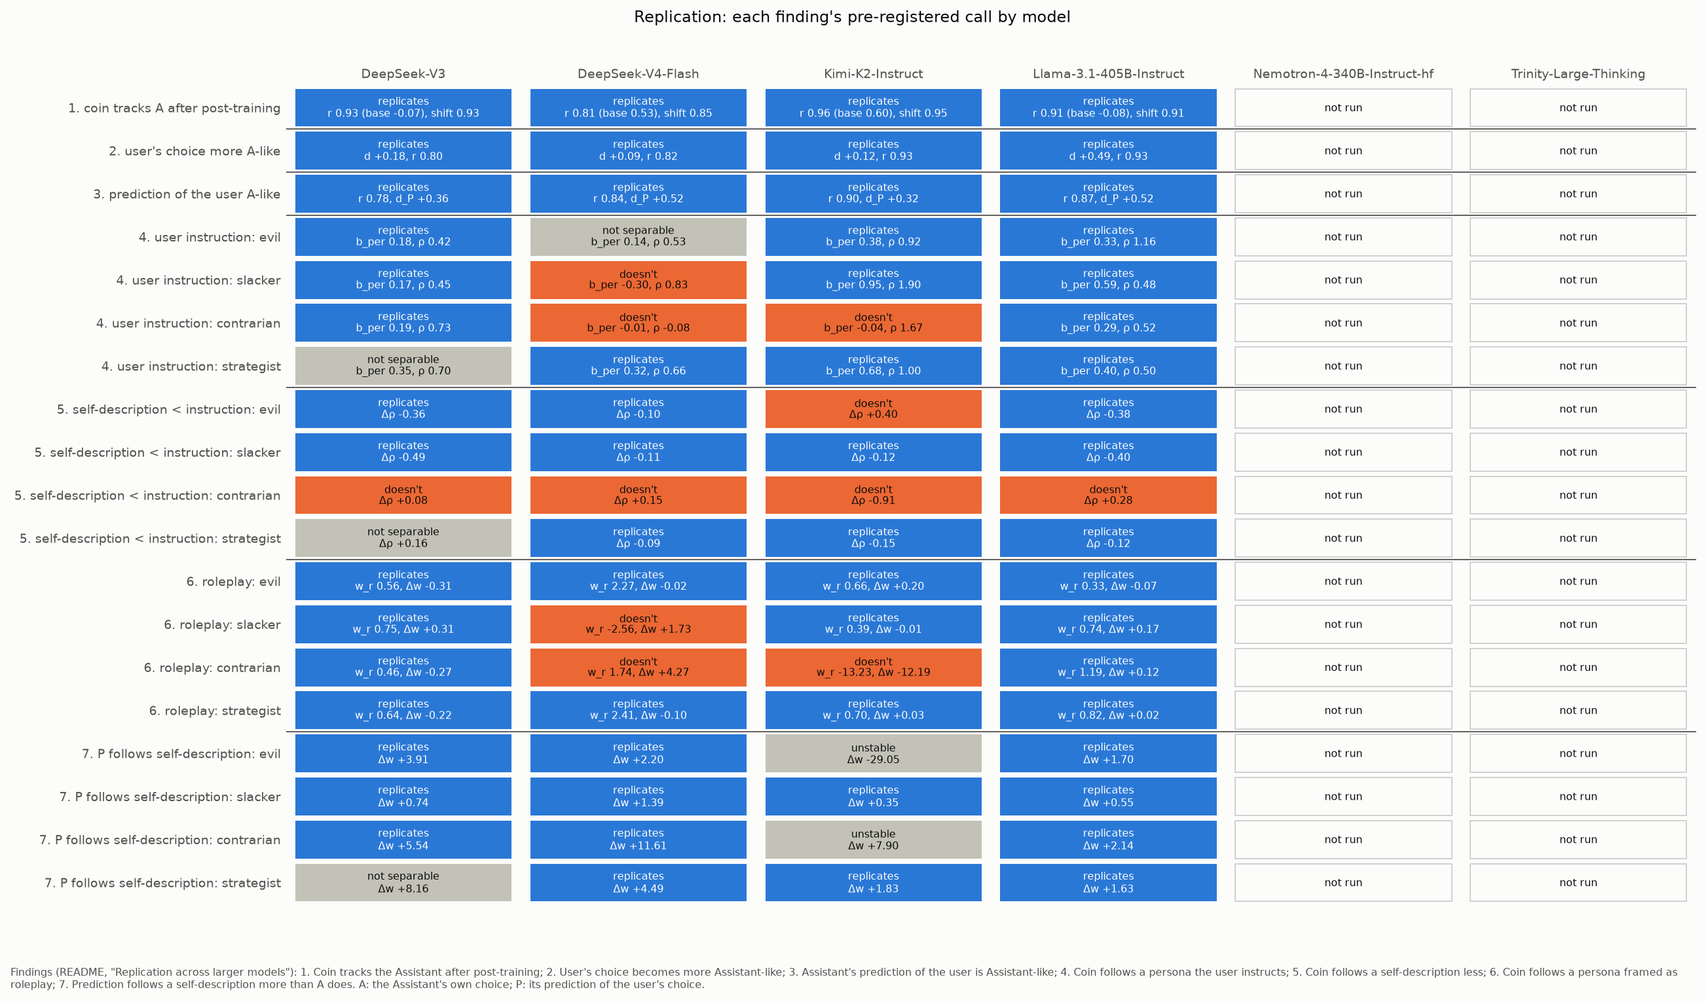
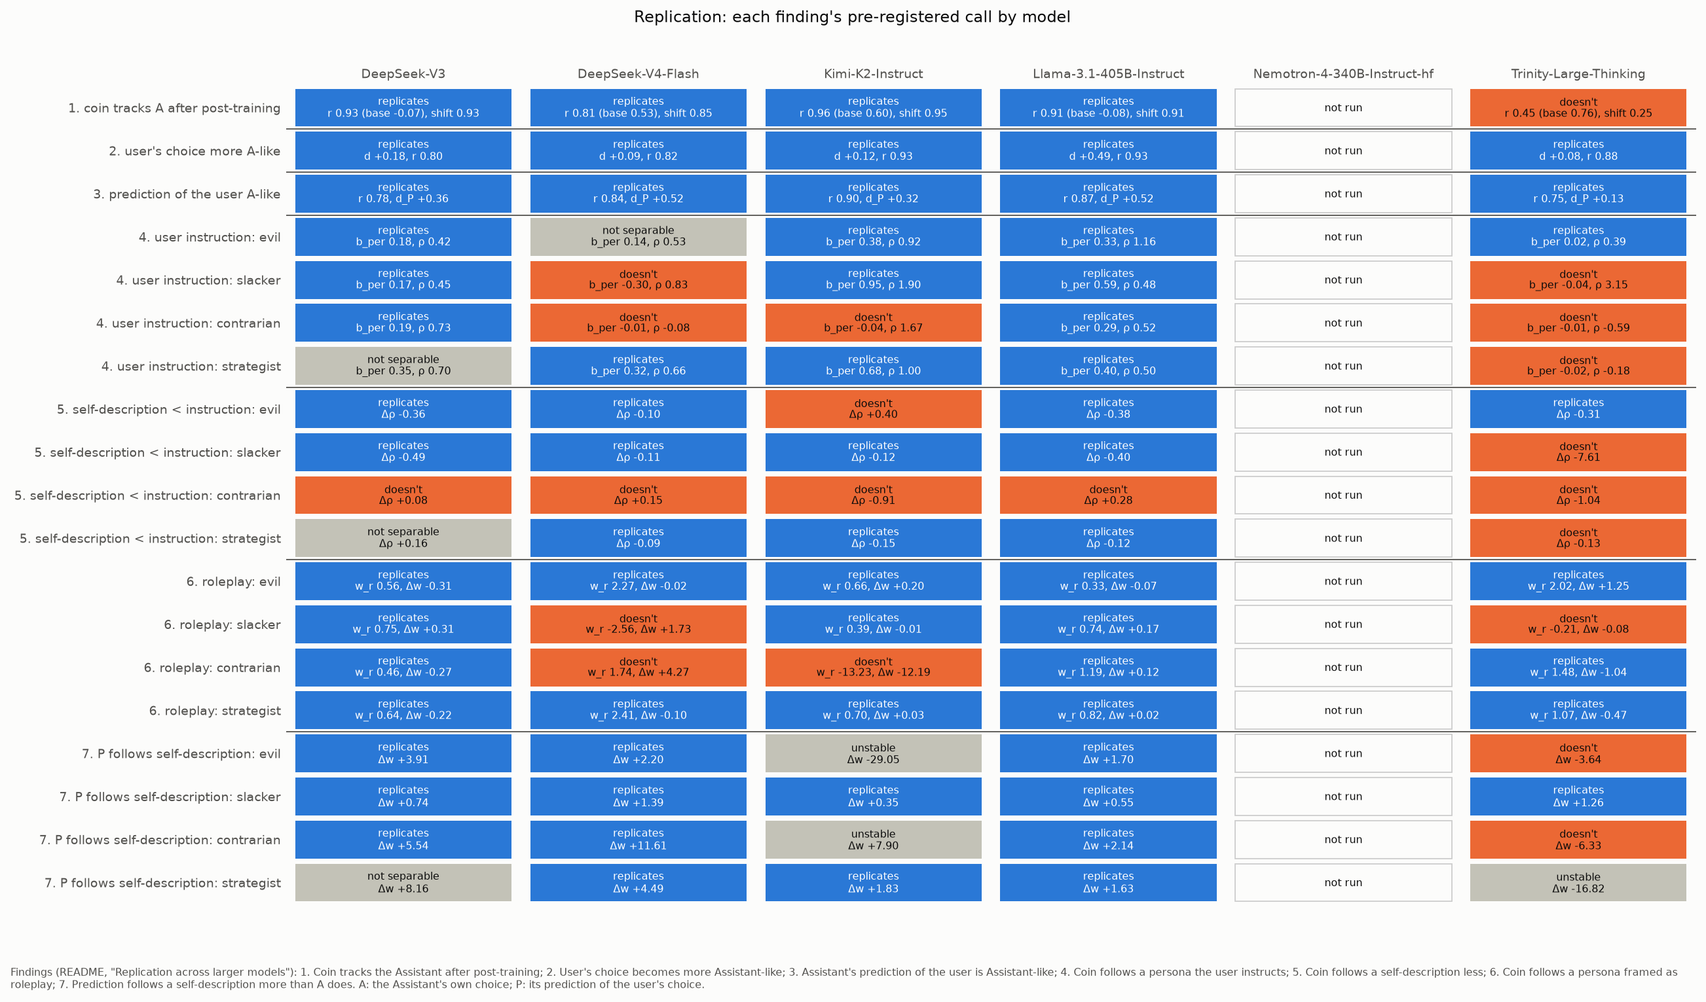
Replication results, Trinity Large Thinking: finding 1 doesn't replicate (r(A_f, C_f) 0.45 below the base's 0.76; coin SD 0.20, as OLMo 3.1 Think's), findings 2-3 do; persona pulls tiny, most persona calls fail or are unstable; Trinity-Large-Base is already Assistant-like

Changed region(s): [[0.8395, 0.0614, 0.995, 0.921]]

diff --git a/replication/STATUS.md b/replication/STATUS.md
@@ -1,6 +1,6 @@
 # Replication status
 
-Regenerated by `uv run python replication_status.py` from the files on disk, 2026-11-11 13:26 UTC. Each cell: median outcome mass / split-half reliability for a scored condition; *pilot* where only the 24-pair pilot exists; – where nothing is. Flagged: median mass below 0.2 (reported, no call) and split-half below 0.9.
+Regenerated by `uv run python replication_status.py` from the files on disk, 2026-11-11 14:41 UTC. Each cell: median outcome mass / split-half reliability for a scored condition; *pilot* where only the 24-pair pilot exists; – where nothing is. Flagged: median mass below 0.2 (reported, no call) and split-half below 0.9.
 
 | model | key | base done | final done | pilot only | last finished | scoring hours |
 |---|---|---|---|---|---|---|
@@ -9,81 +9,81 @@ Regenerated by `uv run python replication_status.py` from the files on disk, 202
 | Kimi-K2-Instruct | `kimi-k2` | 4/4 | 44/44 | 0 | instruct/coinflip@strategist+roleplay at 2026-11-11T13:22:40Z | 0.5 |
 | Llama-3.1-405B-Instruct | `llama-405b` | 4/4 | 44/44 | 0 | instruct/coinflip@strategist+roleplay at 2026-11-11T08:53:07Z | 2.2 |
 | Nemotron-4-340B-Instruct-hf | `nemotron4-340b` | 0/4 | 0/44 | 0 |  | 0.0 |
-| Trinity-Large-Thinking | `trinity-large` | 0/4 | 0/44 | 0 |  | 0.0 |
+| Trinity-Large-Thinking | `trinity-large` | 4/4 | 44/44 | 0 | instruct/coinflip@strategist+roleplay at 2026-11-11T14:38:21Z | 0.2 |
 
 ## Conditions
 
 | condition | DeepSeek-V3 | DeepSeek-V4-Flash | Kimi-K2-Instruct | Llama-3.1-405B-Instruct | Nemotron-4-340B-Instruct-hf | Trinity-Large-Thinking |
 |---|---|---|---|---|---|---|
-| `base/assistant` | 0.99 / 0.994 | 1.00 / 0.999 | 1.00 / 0.998 | 0.99 / 0.993 | – | – |
-| `base/coinflip` | 0.86 / 0.972 | 0.86 / 0.989 | 0.91 / 0.990 | 0.83 / 0.991 | – | – |
-| `base/user_choice` | 0.96 / 0.993 | 1.00 / 0.998 | 1.00 / 0.997 | 0.97 / 0.993 | – | – |
-| `base/predict_user` | 0.99 / 0.993 | 1.00 / 0.998 | 1.00 / 0.997 | 0.99 / 0.992 | – | – |
-| `instruct/assistant` | 1.00 / 0.999 | 1.00 / 0.999 | 1.00 / 0.999 | 1.00 / 0.998 | – | – |
-| `instruct/coinflip` | 0.90 / 0.997 | 0.89 / 0.996 | 0.33 / 0.999 | 0.60 / 0.999 | – | – |
-| `instruct/user_choice` | 1.00 / 0.998 | 0.99 / 0.998 | 0.95 / 0.998 | 1.00 / 0.998 | – | – |
-| `instruct/predict_user` | 1.00 / 0.998 | 1.00 / 0.998 | 1.00 / 0.998 | 1.00 / 0.998 | – | – |
-| `instruct/assistant@evil` | 1.00 / 0.998 | 1.00 / 0.997 | 1.00 / 0.998 | 1.00 / 0.998 | – | – |
-| `instruct/coinflip@evil` | 0.93 / 0.995 | 0.91 / 0.994 | 0.78 / 0.998 | 0.87 / 0.996 | – | – |
-| `instruct/assistant@evil+user` | 1.00 / 0.997 | 1.00 / 0.998 | 1.00 / 0.998 | 1.00 / 0.998 | – | – |
-| `instruct/coinflip@evil+user` | 0.94 / 0.993 | 0.92 / 0.996 | 0.79 / 0.998 | 0.81 / 0.997 | – | – |
-| `instruct/assistant@evil+self` | 1.00 / 0.998 | 1.00 / 0.999 | 1.00 / 0.999 | 1.00 / 0.998 | – | – |
-| `instruct/coinflip@evil+self` | 0.93 / 0.996 | 0.93 / 0.997 | 0.62 / 0.999 | 0.75 / 0.998 | – | – |
-| `instruct/user_choice@evil+self` | 0.99 / 0.996 | 0.99 / 0.998 | 0.97 / 0.998 | 1.00 / 0.998 | – | – |
-| `instruct/predict_user@evil+self` | 1.00 / 0.999 | 1.00 / 0.995 | 1.00 / 0.996 | 1.00 / 0.997 | – | – |
-| `instruct/assistant@evil+roleplay` | 1.00 / 0.998 | 1.00 / 0.997 | 1.00 / 0.999 | 1.00 / 0.998 | – | – |
-| `instruct/coinflip@evil+roleplay` | 0.96 / 0.994 | 0.92 / 0.993 | 0.79 / 0.999 | 0.89 / 0.997 | – | – |
-| `instruct/assistant@slacker` | 1.00 / 0.999 | 1.00 / 0.999 | 1.00 / 0.998 | 1.00 / 0.998 | – | – |
-| `instruct/coinflip@slacker` | 0.93 / 0.998 | 0.87 / 0.995 | 0.67 / 0.998 | 0.83 / 0.998 | – | – |
-| `instruct/assistant@slacker+user` | 1.00 / 0.998 | 1.00 / 0.999 | 1.00 / 0.998 | 1.00 / 0.998 | – | – |
-| `instruct/coinflip@slacker+user` | 0.96 / 0.996 | 0.89 / 0.996 | 0.72 / 0.999 | 0.74 / 0.998 | – | – |
-| `instruct/assistant@slacker+self` | 1.00 / 0.998 | 1.00 / 0.999 | 1.00 / 0.998 | 1.00 / 0.998 | – | – |
-| `instruct/coinflip@slacker+self` | 0.96 / 0.996 | 0.89 / 0.996 | 0.59 / 0.999 | 0.73 / 0.999 | – | – |
-| `instruct/user_choice@slacker+self` | 1.00 / 0.997 | 0.97 / 0.995 | 0.99 / 0.998 | 0.98 / 0.995 | – | – |
-| `instruct/predict_user@slacker+self` | 1.00 / 0.998 | 1.00 / 0.998 | 1.00 / 0.998 | 1.00 / 0.998 | – | – |
-| `instruct/assistant@slacker+roleplay` | 1.00 / 0.998 | 1.00 / 0.999 | 1.00 / 0.998 | 1.00 / 0.999 | – | – |
-| `instruct/coinflip@slacker+roleplay` | 0.98 / 0.998 | 0.89 / 0.993 | 0.78 / 0.998 | 0.83 / 0.999 | – | – |
-| `instruct/assistant@contrarian` | 1.00 / 0.998 | 1.00 / 0.998 | 1.00 / 0.998 | 1.00 / 0.998 | – | – |
-| `instruct/coinflip@contrarian` | 0.93 / 0.993 | 0.88 / 0.980 | 0.63 / 0.982 | 0.78 / 0.996 | – | – |
-| `instruct/assistant@contrarian+user` | 1.00 / 0.998 | 1.00 / 0.998 | 1.00 / 0.997 | 1.00 / 0.998 | – | – |
-| `instruct/coinflip@contrarian+user` | 0.97 / 0.986 | 0.93 / 0.974 | 0.72 / 0.983 | 0.74 / 0.997 | – | – |
-| `instruct/assistant@contrarian+self` | 1.00 / 0.998 | 1.00 / 0.998 | 1.00 / 0.999 | 1.00 / 0.998 | – | – |
-| `instruct/coinflip@contrarian+self` | 0.97 / 0.993 | 0.92 / 0.976 | 0.74 / 0.981 | 0.70 / 0.999 | – | – |
-| `instruct/user_choice@contrarian+self` | 0.93 / 0.992 | 0.96 / 0.996 | 0.94 / 0.989 | 0.97 / 0.998 | – | – |
-| `instruct/predict_user@contrarian+self` | 1.00 / 0.999 | 1.00 / 0.998 | 1.00 / 0.996 | 1.00 / 0.998 | – | – |
-| `instruct/assistant@contrarian+roleplay` | 1.00 / 0.997 | 1.00 / 0.996 | 1.00 / 0.997 | 1.00 / 0.998 | – | – |
-| `instruct/coinflip@contrarian+roleplay` | 0.97 / 0.981 | 0.93 / 0.978 | 0.76 / 0.991 | 0.80 / 0.992 | – | – |
-| `instruct/assistant@strategist` | 1.00 / 0.998 | 1.00 / 0.999 | 1.00 / 0.999 | 1.00 / 0.998 | – | – |
-| `instruct/coinflip@strategist` | 0.92 / 0.996 | 0.88 / 0.995 | 0.58 / 0.998 | 0.82 / 0.997 | – | – |
-| `instruct/assistant@strategist+user` | 1.00 / 0.998 | 1.00 / 0.999 | 1.00 / 0.999 | 1.00 / 0.998 | – | – |
-| `instruct/coinflip@strategist+user` | 0.93 / 0.996 | 0.90 / 0.996 | 0.55 / 0.999 | 0.77 / 0.997 | – | – |
-| `instruct/assistant@strategist+self` | 1.00 / 0.999 | 1.00 / 0.999 | 1.00 / 0.999 | 1.00 / 0.998 | – | – |
-| `instruct/coinflip@strategist+self` | 0.93 / 0.997 | 0.90 / 0.996 | 0.55 / 0.999 | 0.68 / 0.998 | – | – |
-| `instruct/user_choice@strategist+self` | 1.00 / 0.998 | 0.99 / 0.998 | 0.98 / 0.999 | 0.99 / 0.998 | – | – |
-| `instruct/predict_user@strategist+self` | 1.00 / 0.999 | 1.00 / 0.998 | 1.00 / 0.999 | 1.00 / 0.998 | – | – |
-| `instruct/assistant@strategist+roleplay` | 1.00 / 0.999 | 1.00 / 0.999 | 1.00 / 0.999 | 1.00 / 0.998 | – | – |
-| `instruct/coinflip@strategist+roleplay` | 0.95 / 0.996 | 0.93 / 0.995 | 0.69 / 0.998 | 0.84 / 0.997 | – | – |
+| `base/assistant` | 0.99 / 0.994 | 1.00 / 0.999 | 1.00 / 0.998 | 0.99 / 0.993 | – | 1.00 / 0.999 |
+| `base/coinflip` | 0.86 / 0.972 | 0.86 / 0.989 | 0.91 / 0.990 | 0.83 / 0.991 | – | 0.61 / 0.991 |
+| `base/user_choice` | 0.96 / 0.993 | 1.00 / 0.998 | 1.00 / 0.997 | 0.97 / 0.993 | – | 0.95 / 0.999 |
+| `base/predict_user` | 0.99 / 0.993 | 1.00 / 0.998 | 1.00 / 0.997 | 0.99 / 0.992 | – | 1.00 / 0.999 |
+| `instruct/assistant` | 1.00 / 0.999 | 1.00 / 0.999 | 1.00 / 0.999 | 1.00 / 0.998 | – | 1.00 / 0.999 |
+| `instruct/coinflip` | 0.90 / 0.997 | 0.89 / 0.996 | 0.33 / 0.999 | 0.60 / 0.999 | – | 0.63 / 0.929 |
+| `instruct/user_choice` | 1.00 / 0.998 | 0.99 / 0.998 | 0.95 / 0.998 | 1.00 / 0.998 | – | 0.99 / 0.998 |
+| `instruct/predict_user` | 1.00 / 0.998 | 1.00 / 0.998 | 1.00 / 0.998 | 1.00 / 0.998 | – | 1.00 / 0.998 |
+| `instruct/assistant@evil` | 1.00 / 0.998 | 1.00 / 0.997 | 1.00 / 0.998 | 1.00 / 0.998 | – | 1.00 / 0.997 |
+| `instruct/coinflip@evil` | 0.93 / 0.995 | 0.91 / 0.994 | 0.78 / 0.998 | 0.87 / 0.996 | – | 0.78 / 0.963 |
+| `instruct/assistant@evil+user` | 1.00 / 0.997 | 1.00 / 0.998 | 1.00 / 0.998 | 1.00 / 0.998 | – | 1.00 / 0.997 |
+| `instruct/coinflip@evil+user` | 0.94 / 0.993 | 0.92 / 0.996 | 0.79 / 0.998 | 0.81 / 0.997 | – | 0.74 / 0.936 |
+| `instruct/assistant@evil+self` | 1.00 / 0.998 | 1.00 / 0.999 | 1.00 / 0.999 | 1.00 / 0.998 | – | 1.00 / 0.999 |
+| `instruct/coinflip@evil+self` | 0.93 / 0.996 | 0.93 / 0.997 | 0.62 / 0.999 | 0.75 / 0.998 | – | 0.77 / 0.948 |
+| `instruct/user_choice@evil+self` | 0.99 / 0.996 | 0.99 / 0.998 | 0.97 / 0.998 | 1.00 / 0.998 | – | 0.98 / 0.995 |
+| `instruct/predict_user@evil+self` | 1.00 / 0.999 | 1.00 / 0.995 | 1.00 / 0.996 | 1.00 / 0.997 | – | 0.99 / 0.999 |
+| `instruct/assistant@evil+roleplay` | 1.00 / 0.998 | 1.00 / 0.997 | 1.00 / 0.999 | 1.00 / 0.998 | – | 1.00 / 0.997 |
+| `instruct/coinflip@evil+roleplay` | 0.96 / 0.994 | 0.92 / 0.993 | 0.79 / 0.999 | 0.89 / 0.997 | – | 0.79 / 0.976 |
+| `instruct/assistant@slacker` | 1.00 / 0.999 | 1.00 / 0.999 | 1.00 / 0.998 | 1.00 / 0.998 | – | 1.00 / 0.999 |
+| `instruct/coinflip@slacker` | 0.93 / 0.998 | 0.87 / 0.995 | 0.67 / 0.998 | 0.83 / 0.998 | – | 0.71 / 0.962 |
+| `instruct/assistant@slacker+user` | 1.00 / 0.998 | 1.00 / 0.999 | 1.00 / 0.998 | 1.00 / 0.998 | – | 1.00 / 0.999 |
+| `instruct/coinflip@slacker+user` | 0.96 / 0.996 | 0.89 / 0.996 | 0.72 / 0.999 | 0.74 / 0.998 | – | 0.77 / 0.952 |
+| `instruct/assistant@slacker+self` | 1.00 / 0.998 | 1.00 / 0.999 | 1.00 / 0.998 | 1.00 / 0.998 | – | 1.00 / 0.999 |
+| `instruct/coinflip@slacker+self` | 0.96 / 0.996 | 0.89 / 0.996 | 0.59 / 0.999 | 0.73 / 0.999 | – | 0.77 / 0.940 |
+| `instruct/user_choice@slacker+self` | 1.00 / 0.997 | 0.97 / 0.995 | 0.99 / 0.998 | 0.98 / 0.995 | – | 0.97 / 0.997 |
+| `instruct/predict_user@slacker+self` | 1.00 / 0.998 | 1.00 / 0.998 | 1.00 / 0.998 | 1.00 / 0.998 | – | 1.00 / 0.997 |
+| `instruct/assistant@slacker+roleplay` | 1.00 / 0.998 | 1.00 / 0.999 | 1.00 / 0.998 | 1.00 / 0.999 | – | 1.00 / 0.999 |
+| `instruct/coinflip@slacker+roleplay` | 0.98 / 0.998 | 0.89 / 0.993 | 0.78 / 0.998 | 0.83 / 0.999 | – | 0.77 / 0.963 |
+| `instruct/assistant@contrarian` | 1.00 / 0.998 | 1.00 / 0.998 | 1.00 / 0.998 | 1.00 / 0.998 | – | 1.00 / 0.998 |
+| `instruct/coinflip@contrarian` | 0.93 / 0.993 | 0.88 / 0.980 | 0.63 / 0.982 | 0.78 / 0.996 | – | 0.73 / 0.959 |
+| `instruct/assistant@contrarian+user` | 1.00 / 0.998 | 1.00 / 0.998 | 1.00 / 0.997 | 1.00 / 0.998 | – | 1.00 / 0.998 |
+| `instruct/coinflip@contrarian+user` | 0.97 / 0.986 | 0.93 / 0.974 | 0.72 / 0.983 | 0.74 / 0.997 | – | 0.73 / 0.962 |
+| `instruct/assistant@contrarian+self` | 1.00 / 0.998 | 1.00 / 0.998 | 1.00 / 0.999 | 1.00 / 0.998 | – | 1.00 / 0.998 |
+| `instruct/coinflip@contrarian+self` | 0.97 / 0.993 | 0.92 / 0.976 | 0.74 / 0.981 | 0.70 / 0.999 | – | 0.72 / 0.963 |
+| `instruct/user_choice@contrarian+self` | 0.93 / 0.992 | 0.96 / 0.996 | 0.94 / 0.989 | 0.97 / 0.998 | – | 0.96 / 0.994 |
+| `instruct/predict_user@contrarian+self` | 1.00 / 0.999 | 1.00 / 0.998 | 1.00 / 0.996 | 1.00 / 0.998 | – | 1.00 / 0.999 |
+| `instruct/assistant@contrarian+roleplay` | 1.00 / 0.997 | 1.00 / 0.996 | 1.00 / 0.997 | 1.00 / 0.998 | – | 1.00 / 0.998 |
+| `instruct/coinflip@contrarian+roleplay` | 0.97 / 0.981 | 0.93 / 0.978 | 0.76 / 0.991 | 0.80 / 0.992 | – | 0.74 / 0.970 |
+| `instruct/assistant@strategist` | 1.00 / 0.998 | 1.00 / 0.999 | 1.00 / 0.999 | 1.00 / 0.998 | – | 1.00 / 0.998 |
+| `instruct/coinflip@strategist` | 0.92 / 0.996 | 0.88 / 0.995 | 0.58 / 0.998 | 0.82 / 0.997 | – | 0.72 / 0.949 |
+| `instruct/assistant@strategist+user` | 1.00 / 0.998 | 1.00 / 0.999 | 1.00 / 0.999 | 1.00 / 0.998 | – | 1.00 / 0.999 |
+| `instruct/coinflip@strategist+user` | 0.93 / 0.996 | 0.90 / 0.996 | 0.55 / 0.999 | 0.77 / 0.997 | – | 0.75 / 0.945 |
+| `instruct/assistant@strategist+self` | 1.00 / 0.999 | 1.00 / 0.999 | 1.00 / 0.999 | 1.00 / 0.998 | – | 1.00 / 0.999 |
+| `instruct/coinflip@strategist+self` | 0.93 / 0.997 | 0.90 / 0.996 | 0.55 / 0.999 | 0.68 / 0.998 | – | 0.69 / 0.947 |
+| `instruct/user_choice@strategist+self` | 1.00 / 0.998 | 0.99 / 0.998 | 0.98 / 0.999 | 0.99 / 0.998 | – | 0.99 / 0.998 |
+| `instruct/predict_user@strategist+self` | 1.00 / 0.999 | 1.00 / 0.998 | 1.00 / 0.999 | 1.00 / 0.998 | – | 1.00 / 0.999 |
+| `instruct/assistant@strategist+roleplay` | 1.00 / 0.999 | 1.00 / 0.999 | 1.00 / 0.999 | 1.00 / 0.998 | – | 1.00 / 0.998 |
+| `instruct/coinflip@strategist+roleplay` | 0.95 / 0.996 | 0.93 / 0.995 | 0.69 / 0.998 | 0.84 / 0.997 | – | 0.70 / 0.938 |
 
 ## Calls (from the last `replication_analysis.py` run)
 
 | finding | DeepSeek-V3 | DeepSeek-V4-Flash | Kimi-K2-Instruct | Llama-3.1-405B-Instruct | Nemotron-4-340B-Instruct-hf | Trinity-Large-Thinking |
 |---|---|---|---|---|---|---|
-| 1. Coin tracks the Assistant after post-training | replicates (r 0.93 (base -0.07), shift 0.93) | replicates (r 0.81 (base 0.53), shift 0.85) | replicates (r 0.96 (base 0.60), shift 0.95) | replicates (r 0.91 (base -0.08), shift 0.91) | – | – |
-| 2. User's choice becomes more Assistant-like | replicates (d +0.18, r 0.80) | replicates (d +0.09, r 0.82) | replicates (d +0.12, r 0.93) | replicates (d +0.49, r 0.93) | – | – |
-| 3. Assistant's prediction of the user is Assistant-like | replicates (r 0.78, d_P +0.36) | replicates (r 0.84, d_P +0.52) | replicates (r 0.90, d_P +0.32) | replicates (r 0.87, d_P +0.52) | – | – |
-| 4. Coin follows a persona the user instructs, evil | replicates (b_per 0.18, ρ 0.42) | not separable (b_per 0.14, ρ 0.53) | replicates (b_per 0.38, ρ 0.92) | replicates (b_per 0.33, ρ 1.16) | – | – |
-| 4. Coin follows a persona the user instructs, slacker | replicates (b_per 0.17, ρ 0.45) | doesn't (b_per -0.30, ρ 0.83) | replicates (b_per 0.95, ρ 1.90) | replicates (b_per 0.59, ρ 0.48) | – | – |
-| 4. Coin follows a persona the user instructs, contrarian | replicates (b_per 0.19, ρ 0.73) | doesn't (b_per -0.01, ρ -0.08) | doesn't (b_per -0.04, ρ 1.67) | replicates (b_per 0.29, ρ 0.52) | – | – |
-| 4. Coin follows a persona the user instructs, strategist | not separable (b_per 0.35, ρ 0.70) | replicates (b_per 0.32, ρ 0.66) | replicates (b_per 0.68, ρ 1.00) | replicates (b_per 0.40, ρ 0.50) | – | – |
-| 5. Coin follows a self-description less, evil | replicates (Δρ -0.36) | replicates (Δρ -0.10) | doesn't (Δρ +0.40) | replicates (Δρ -0.38) | – | – |
-| 5. Coin follows a self-description less, slacker | replicates (Δρ -0.49) | replicates (Δρ -0.11) | replicates (Δρ -0.12) | replicates (Δρ -0.40) | – | – |
-| 5. Coin follows a self-description less, contrarian | doesn't (Δρ +0.08) | doesn't (Δρ +0.15) | doesn't (Δρ -0.91) | doesn't (Δρ +0.28) | – | – |
-| 5. Coin follows a self-description less, strategist | not separable (Δρ +0.16) | replicates (Δρ -0.09) | replicates (Δρ -0.15) | replicates (Δρ -0.12) | – | – |
-| 6. Coin follows a persona framed as roleplay, evil | replicates (w_r 0.56, Δw -0.31) | replicates (w_r 2.27, Δw -0.02) | replicates (w_r 0.66, Δw +0.20) | replicates (w_r 0.33, Δw -0.07) | – | – |
-| 6. Coin follows a persona framed as roleplay, slacker | replicates (w_r 0.75, Δw +0.31) | doesn't (w_r -2.56, Δw +1.73) | replicates (w_r 0.39, Δw -0.01) | replicates (w_r 0.74, Δw +0.17) | – | – |
-| 6. Coin follows a persona framed as roleplay, contrarian | replicates (w_r 0.46, Δw -0.27) | doesn't (w_r 1.74, Δw +4.27) | doesn't (w_r -13.23, Δw -12.19) | replicates (w_r 1.19, Δw +0.12) | – | – |
-| 6. Coin follows a persona framed as roleplay, strategist | replicates (w_r 0.64, Δw -0.22) | replicates (w_r 2.41, Δw -0.10) | replicates (w_r 0.70, Δw +0.03) | replicates (w_r 0.82, Δw +0.02) | – | – |
-| 7. Prediction follows a self-description more than A does, evil | replicates (Δw +3.91) | replicates (Δw +2.20) | unstable (Δw -29.05) | replicates (Δw +1.70) | – | – |
-| 7. Prediction follows a self-description more than A does, slacker | replicates (Δw +0.74) | replicates (Δw +1.39) | replicates (Δw +0.35) | replicates (Δw +0.55) | – | – |
-| 7. Prediction follows a self-description more than A does, contrarian | replicates (Δw +5.54) | replicates (Δw +11.61) | unstable (Δw +7.90) | replicates (Δw +2.14) | – | – |
-| 7. Prediction follows a self-description more than A does, strategist | not separable (Δw +8.16) | replicates (Δw +4.49) | replicates (Δw +1.83) | replicates (Δw +1.63) | – | – |
+| 1. Coin tracks the Assistant after post-training | replicates (r 0.93 (base -0.07), shift 0.93) | replicates (r 0.81 (base 0.53), shift 0.85) | replicates (r 0.96 (base 0.60), shift 0.95) | replicates (r 0.91 (base -0.08), shift 0.91) | – | doesn't (r 0.45 (base 0.76), shift 0.25) |
+| 2. User's choice becomes more Assistant-like | replicates (d +0.18, r 0.80) | replicates (d +0.09, r 0.82) | replicates (d +0.12, r 0.93) | replicates (d +0.49, r 0.93) | – | replicates (d +0.08, r 0.88) |
+| 3. Assistant's prediction of the user is Assistant-like | replicates (r 0.78, d_P +0.36) | replicates (r 0.84, d_P +0.52) | replicates (r 0.90, d_P +0.32) | replicates (r 0.87, d_P +0.52) | – | replicates (r 0.75, d_P +0.13) |
+| 4. Coin follows a persona the user instructs, evil | replicates (b_per 0.18, ρ 0.42) | not separable (b_per 0.14, ρ 0.53) | replicates (b_per 0.38, ρ 0.92) | replicates (b_per 0.33, ρ 1.16) | – | replicates (b_per 0.02, ρ 0.39) |
+| 4. Coin follows a persona the user instructs, slacker | replicates (b_per 0.17, ρ 0.45) | doesn't (b_per -0.30, ρ 0.83) | replicates (b_per 0.95, ρ 1.90) | replicates (b_per 0.59, ρ 0.48) | – | doesn't (b_per -0.04, ρ 3.15) |
+| 4. Coin follows a persona the user instructs, contrarian | replicates (b_per 0.19, ρ 0.73) | doesn't (b_per -0.01, ρ -0.08) | doesn't (b_per -0.04, ρ 1.67) | replicates (b_per 0.29, ρ 0.52) | – | doesn't (b_per -0.01, ρ -0.59) |
+| 4. Coin follows a persona the user instructs, strategist | not separable (b_per 0.35, ρ 0.70) | replicates (b_per 0.32, ρ 0.66) | replicates (b_per 0.68, ρ 1.00) | replicates (b_per 0.40, ρ 0.50) | – | doesn't (b_per -0.02, ρ -0.18) |
+| 5. Coin follows a self-description less, evil | replicates (Δρ -0.36) | replicates (Δρ -0.10) | doesn't (Δρ +0.40) | replicates (Δρ -0.38) | – | replicates (Δρ -0.31) |
+| 5. Coin follows a self-description less, slacker | replicates (Δρ -0.49) | replicates (Δρ -0.11) | replicates (Δρ -0.12) | replicates (Δρ -0.40) | – | doesn't (Δρ -7.61) |
+| 5. Coin follows a self-description less, contrarian | doesn't (Δρ +0.08) | doesn't (Δρ +0.15) | doesn't (Δρ -0.91) | doesn't (Δρ +0.28) | – | doesn't (Δρ -1.04) |
+| 5. Coin follows a self-description less, strategist | not separable (Δρ +0.16) | replicates (Δρ -0.09) | replicates (Δρ -0.15) | replicates (Δρ -0.12) | – | doesn't (Δρ -0.13) |
+| 6. Coin follows a persona framed as roleplay, evil | replicates (w_r 0.56, Δw -0.31) | replicates (w_r 2.27, Δw -0.02) | replicates (w_r 0.66, Δw +0.20) | replicates (w_r 0.33, Δw -0.07) | – | replicates (w_r 2.02, Δw +1.25) |
+| 6. Coin follows a persona framed as roleplay, slacker | replicates (w_r 0.75, Δw +0.31) | doesn't (w_r -2.56, Δw +1.73) | replicates (w_r 0.39, Δw -0.01) | replicates (w_r 0.74, Δw +0.17) | – | doesn't (w_r -0.21, Δw -0.08) |
+| 6. Coin follows a persona framed as roleplay, contrarian | replicates (w_r 0.46, Δw -0.27) | doesn't (w_r 1.74, Δw +4.27) | doesn't (w_r -13.23, Δw -12.19) | replicates (w_r 1.19, Δw +0.12) | – | replicates (w_r 1.48, Δw -1.04) |
+| 6. Coin follows a persona framed as roleplay, strategist | replicates (w_r 0.64, Δw -0.22) | replicates (w_r 2.41, Δw -0.10) | replicates (w_r 0.70, Δw +0.03) | replicates (w_r 0.82, Δw +0.02) | – | replicates (w_r 1.07, Δw -0.47) |
+| 7. Prediction follows a self-description more than A does, evil | replicates (Δw +3.91) | replicates (Δw +2.20) | unstable (Δw -29.05) | replicates (Δw +1.70) | – | doesn't (Δw -3.64) |
+| 7. Prediction follows a self-description more than A does, slacker | replicates (Δw +0.74) | replicates (Δw +1.39) | replicates (Δw +0.35) | replicates (Δw +0.55) | – | replicates (Δw +1.26) |
+| 7. Prediction follows a self-description more than A does, contrarian | replicates (Δw +5.54) | replicates (Δw +11.61) | unstable (Δw +7.90) | replicates (Δw +2.14) | – | doesn't (Δw -6.33) |
+| 7. Prediction follows a self-description more than A does, strategist | not separable (Δw +8.16) | replicates (Δw +4.49) | replicates (Δw +1.83) | replicates (Δw +1.63) | – | unstable (Δw -16.82) |

diff --git a/README.md b/README.md
@@ -4961,6 +4961,38 @@ bolds its answer, as GLM and Qwen did in the sweep). That is above the 0.2 floor
   on finding 5 says nothing.
 - **Finding 7's evil cell is unstable:** P's b_def + b_per CI includes 0.
 
+### Results: Trinity Large Thinking (2026-11-11)
+
+**Run.** 8x B200: the base took 40 minutes and the final 35, with loads of 39 and 22 minutes. Scoring is fast here (~14 s
+per condition, ~13B parameters active). Every cell passes the gates; the final coin's split-half reliability is the
+lowest of any cell so far, 0.93. Results are in `outputs/replication/trinity-large/`.
+
+![Trinity calls](figures/trinity-large/summary.png)
+
+| finding | evil | slacker | contrarian | strategist |
+|---|---|---|---|---|
+| 1. coin tracks the Assistant | **doesn't**: r(A_f, C_f) 0.45, below the base's 0.76; r shift 0.25 | | | |
+| 2. user's choice more Assistant-like | replicates: d +0.08, r(A_f, U_f) 0.88 | | | |
+| 3. prediction of the user Assistant-like | replicates: r(A_f, P_f) 0.75, d_P +0.13 | | | |
+| 4. coin follows a user instruction | replicates (b_per +0.02) | doesn't | doesn't | doesn't |
+| 5. self-description less than instruction | replicates (Δρ -0.31) | doesn't (ratio undefined) | doesn't (ratio undefined) | doesn't (-0.13, CI includes 0) |
+| 6. coin follows roleplay | replicates (b_per +0.07) | doesn't | replicates (+0.07) | replicates (+0.04) |
+| 7. prediction follows self-description more | **doesn't** (-3.64) | replicates | **doesn't** (-6.33) | unstable |
+
+**First observations:**
+- **The thinking model's coin barely tracks its Assistant.** The final coin's SD is 0.20 nats against the Assistant's 2.41
+  (OLMo 3.1 Think: 0.17 and 3.02). It correlates less with the Assistant than the base's coin does. This is what OLMo 3.1
+  Think showed, and what I predicted for Trinity. Finding 1 fails on the drop from base (r shift 0.25 still clears its
+  bar).
+- **Trinity-Large-Base, the annealed base, is already Assistant-like:** Assistant-format SD 2.20, and its coin tracks it at
+  r 0.76. Its card says it had no instruction data. It joins Gemma 4, Qwen 3.5 35B-A3B and V4 Flash, whose bases already
+  showed it in the sweep, though the effect is larger here.
+- **With a coin this small, the persona pulls are tiny** (b 0.02-0.08 nats per SD). Several w and ρ ratios are
+  undefined or unstable, so most persona calls here say little either way.
+- **Not run: the check that reading after an empty think block agrees with reading inside the reasoning** (OLMo Think:
+  r 0.99). It would take a ~25-minute reload and a minute of scoring. The coin, a user turn, doesn't depend on it; the
+  Assistant-turn readouts do.
+
 ## Tasks
 
 From the canonical 6,000-task set of Gilg et al., [Probing Persona-Dependent
